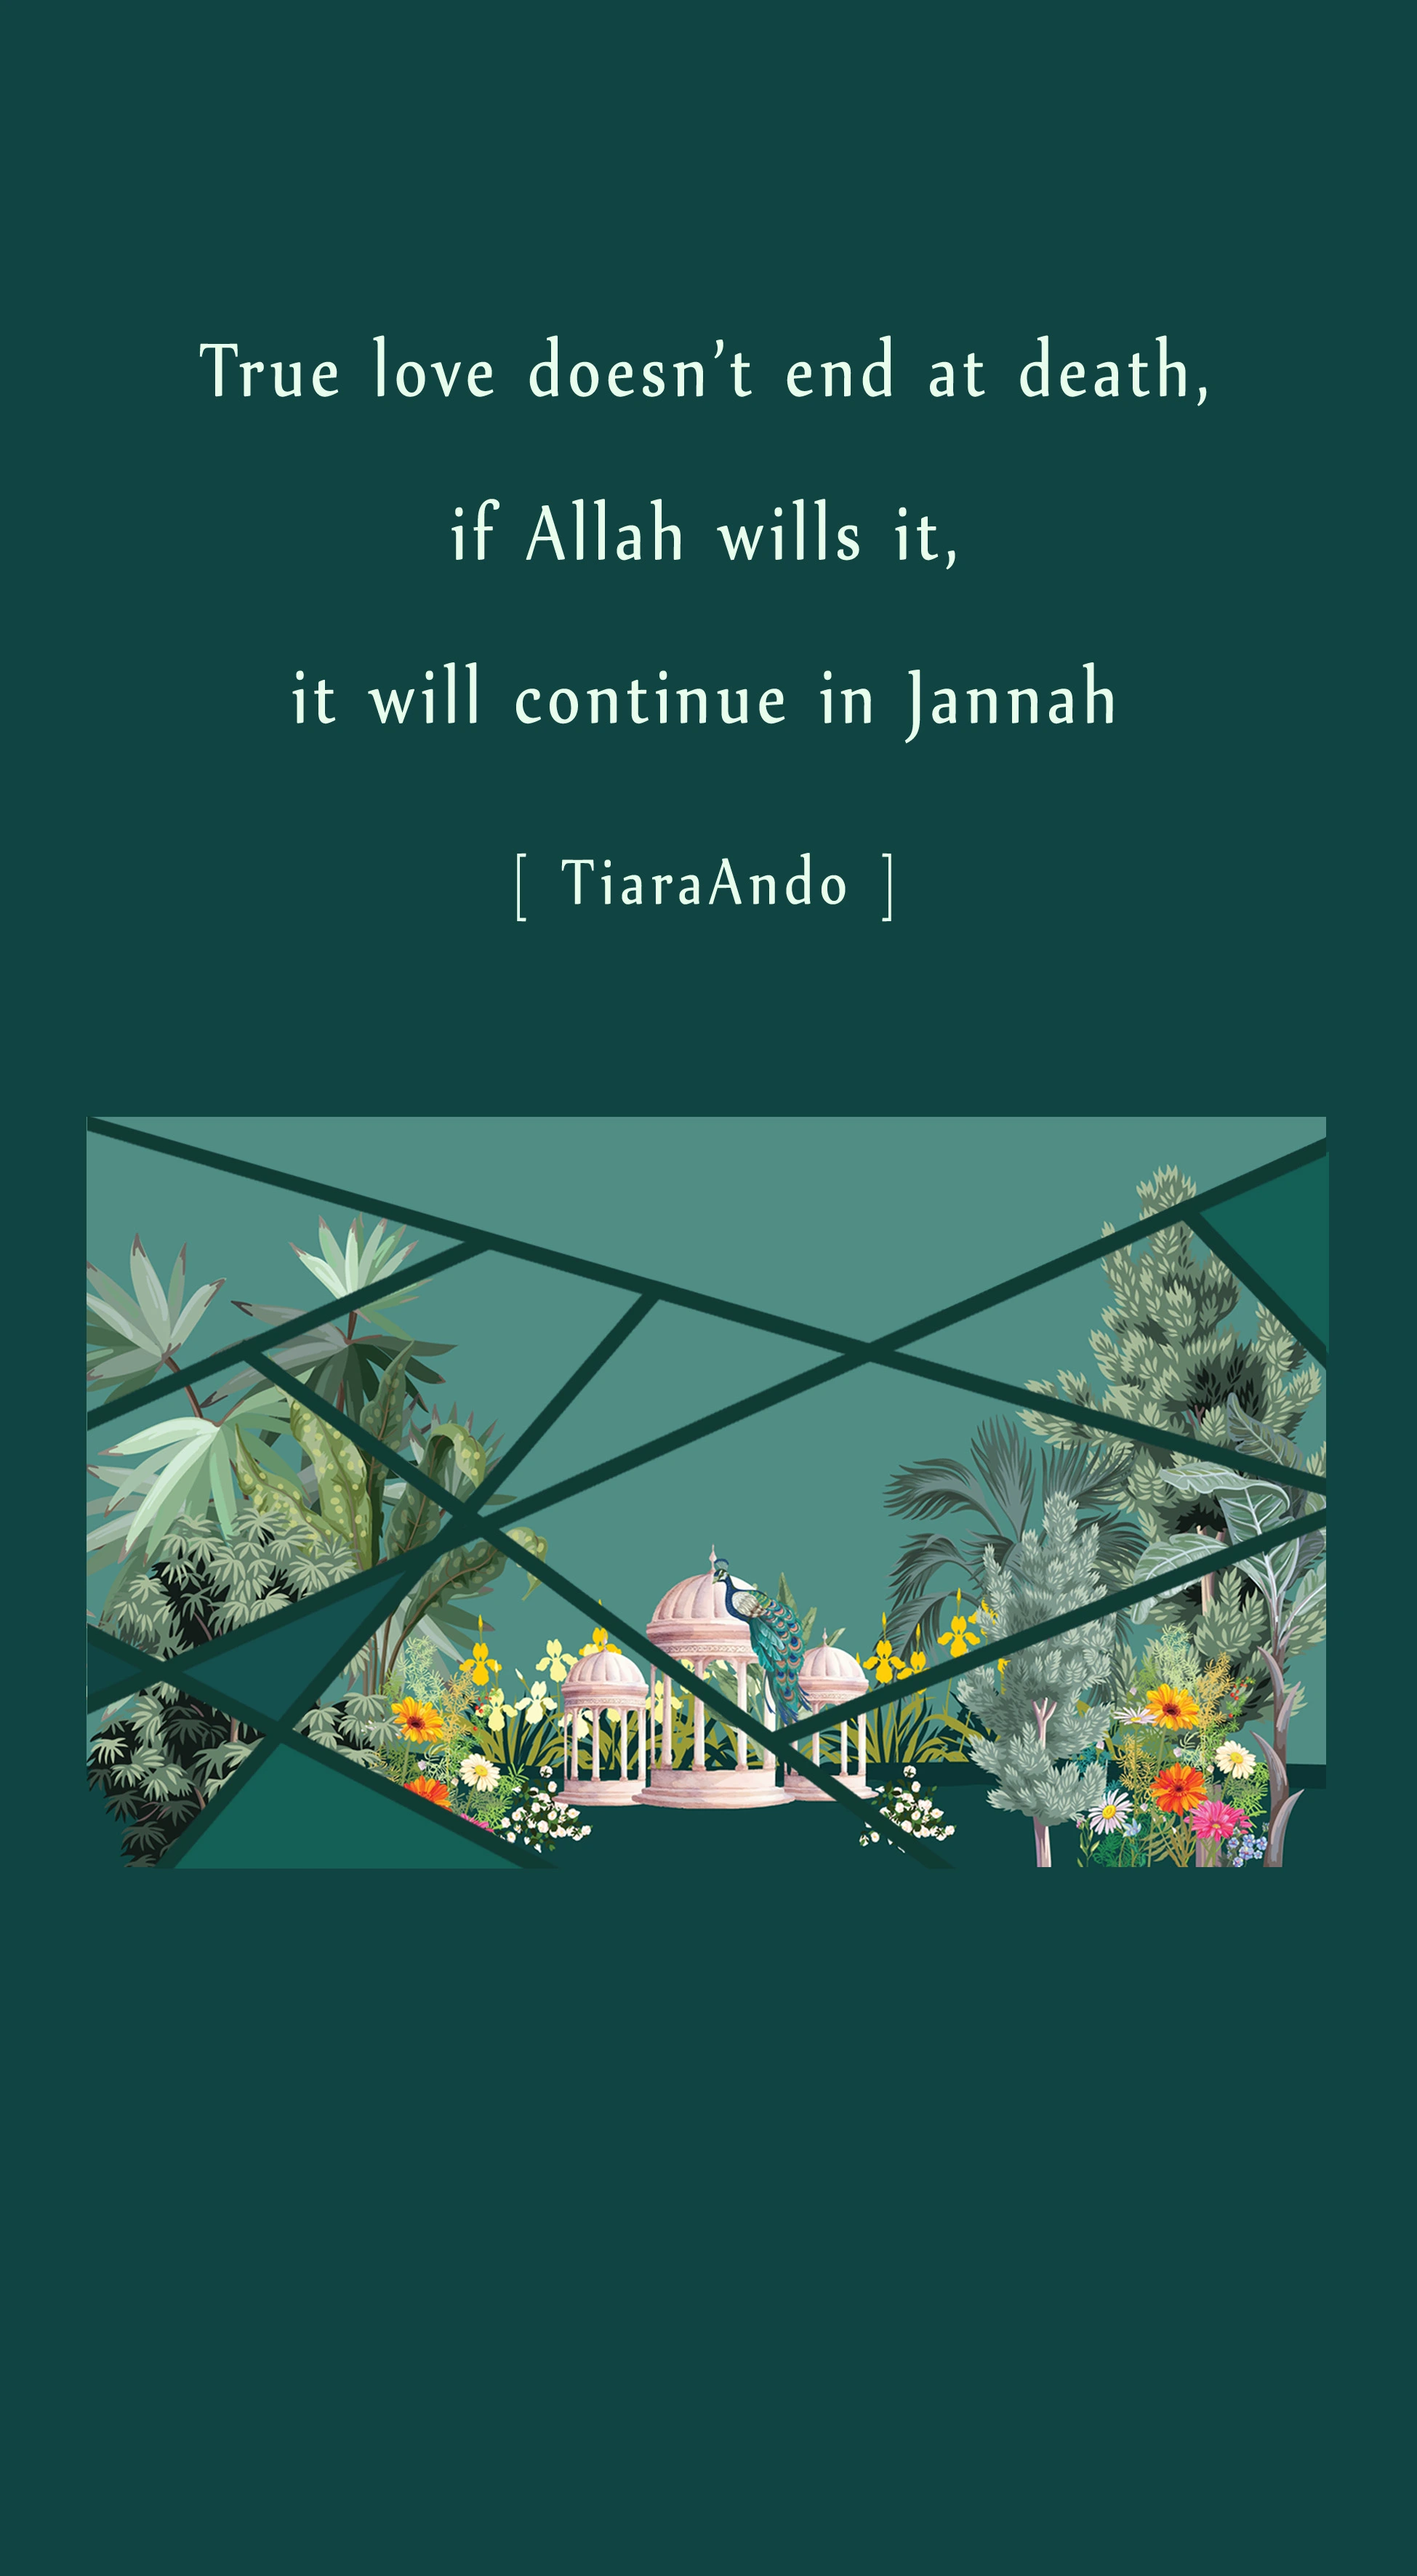
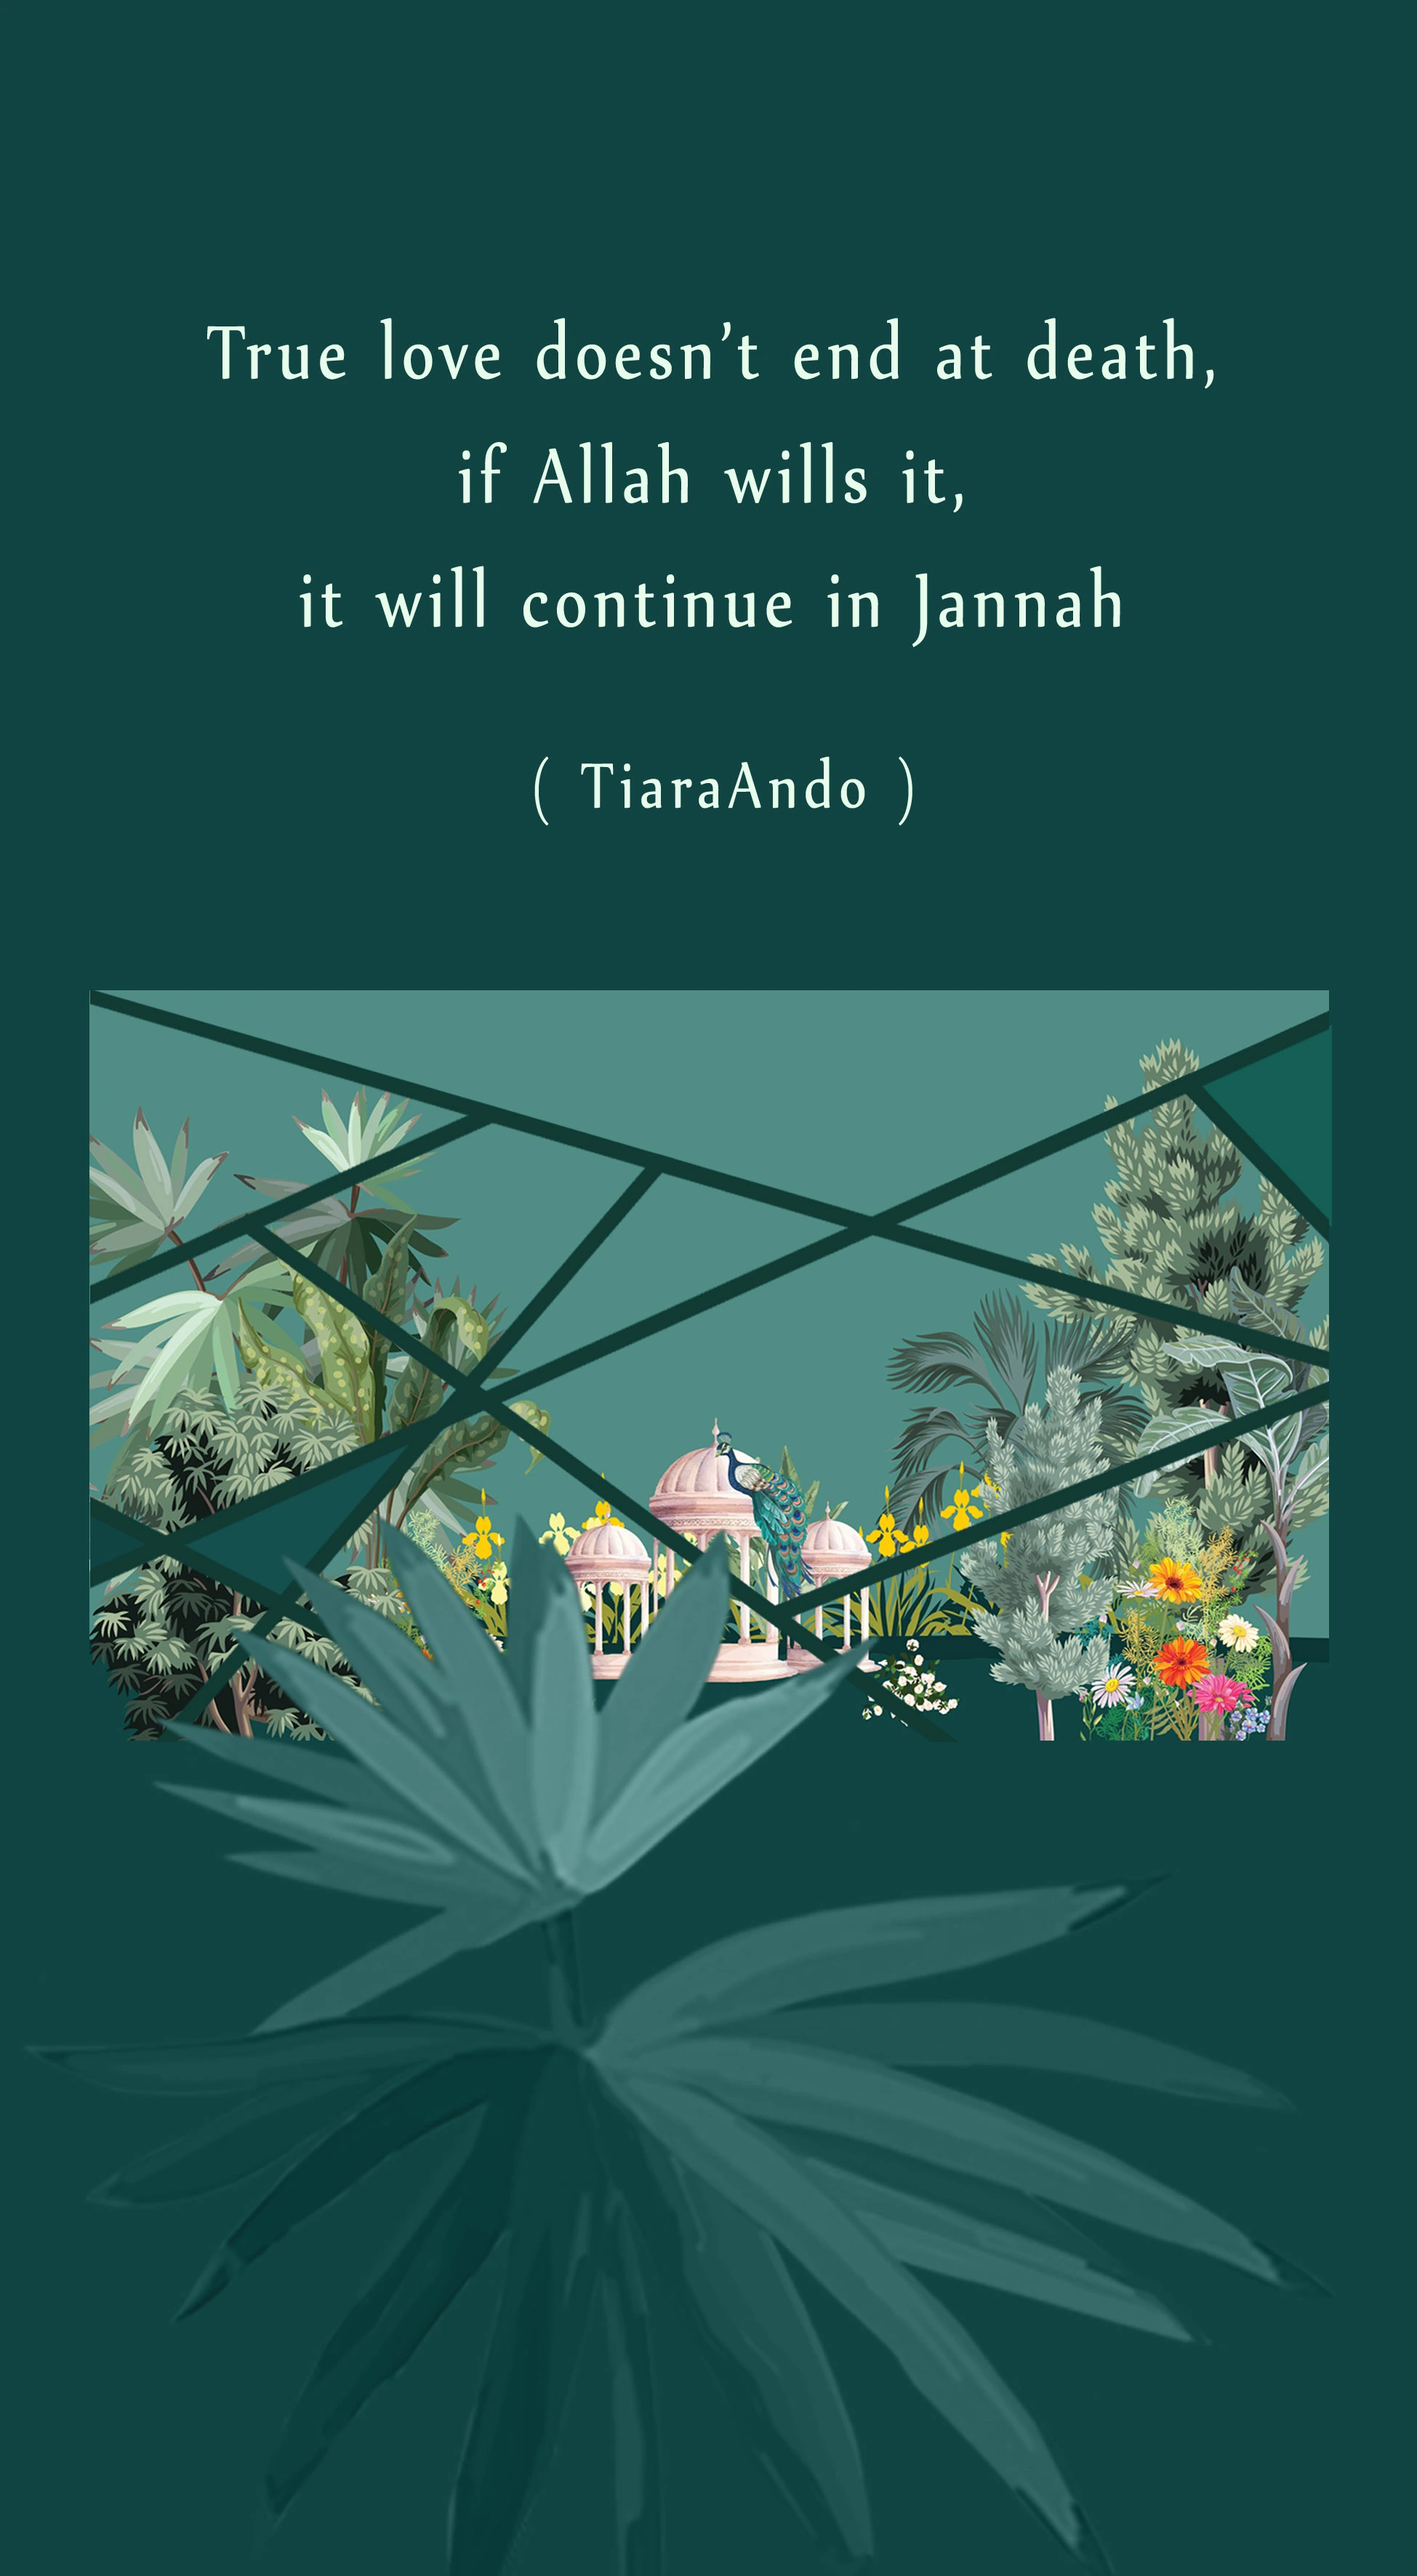
feat: update image

Changed region(s): [[0.0616, 0.1242, 0.9543, 0.9935], [0.2155, 0.2173, 0.2463, 0.2484]]

diff --git a/app/page.tsx b/app/page.tsx
@@ -287,9 +287,60 @@ export default function Home() {
               transition={{ duration: 1.5, repeat: Infinity }}
               className="absolute bottom-6 w-full flex flex-col items-center z-30 cursor-pointer focus:outline-none"
               onClick={() => {
-                const target = isFormal
-                  ? document.getElementById('quote-formal')
-                  : document.getElementById('timeline')
+                const target = document.getElementById('quote-formal')
+                if (target) {
+                  target.scrollIntoView({ behavior: 'smooth' })
+                }
+              }}
+            >
+              {/* Icon bulat */}
+              <div className="bg-white/80 backdrop-blur-md shadow-lg rounded-full p-2 mb-2">
+                <ChevronDown className="w-6 h-6 text-[#335A4A]" />
+              </div>
+
+              {/* Label teks */}
+              {/* {!isFormal && (
+                <span
+                  className="text-base font-semibold text-[#335A4A] tracking-wide"
+                  style={{
+                    textShadow: `
+                  -1px -1px 0 #fff,
+                  1px -1px 0 #fff,
+                  -1px 1px 0 #fff,
+                  1px 1px 0 #fff
+                `,
+                  }}
+                >
+                  Akad Nikah
+                </span>
+              )} */}
+            </motion.button>
+          </section>
+
+          <section
+            id="quote-formal"
+            className="w-screen max-w-[480px] m-auto bg-[#104442] relative snap-center snap-always flex flex-col"
+            style={{
+              height: '100dvh',
+              backgroundPosition: 'center',
+              backgroundSize: 'cover',
+            }}
+          >
+            {/* Kontainer utama */}
+            <Image
+              src="/resepsi/2.webp"
+              fill
+              alt="cover"
+              className="object-contain"
+            />
+
+            {/* Panah Scroll */}
+            <motion.button
+              animate={{ y: [0, -10, 0] }}
+              transition={{ duration: 1.5, repeat: Infinity }}
+              className="absolute bottom-6 w-full flex flex-col items-center z-30 cursor-pointer focus:outline-none"
+              onClick={() => {
+                const target = document.getElementById('timeline')
                 if (target) {
                   target.scrollIntoView({ behavior: 'smooth' })
                 }
@@ -318,63 +369,6 @@ export default function Home() {
               )}
             </motion.button>
           </section>
-
-          {isFormal && (
-            <>
-              <section
-                id="quote-formal"
-                className="w-screen max-w-[480px] m-auto bg-[#104442] relative snap-center snap-always flex flex-col"
-                style={{
-                  height: '100dvh',
-                  backgroundPosition: 'center',
-                  backgroundSize: 'cover',
-                }}
-              >
-                {/* Kontainer utama */}
-                <Image
-                  src="/resepsi/2.webp"
-                  fill
-                  alt="cover"
-                  className="object-contain"
-                />
-
-                {/* Panah Scroll */}
-                <motion.button
-                  animate={{ y: [0, -10, 0] }}
-                  transition={{ duration: 1.5, repeat: Infinity }}
-                  className="absolute bottom-6 w-full flex flex-col items-center z-30 cursor-pointer focus:outline-none"
-                  onClick={() => {
-                    const target = document.getElementById('timeline')
-                    if (target) {
-                      target.scrollIntoView({ behavior: 'smooth' })
-                    }
-                  }}
-                >
-                  {/* Icon bulat */}
-                  <div className="bg-white/80 backdrop-blur-md shadow-lg rounded-full p-2 mb-2">
-                    <ChevronDown className="w-6 h-6 text-[#335A4A]" />
-                  </div>
-
-                  {/* Label teks */}
-                  {!isFormal && (
-                    <span
-                      className="text-base font-semibold text-[#335A4A] tracking-wide"
-                      style={{
-                        textShadow: `
-                  -1px -1px 0 #fff,
-                  1px -1px 0 #fff,
-                  -1px 1px 0 #fff,
-                  1px 1px 0 #fff
-                `,
-                      }}
-                    >
-                      Akad Nikah
-                    </span>
-                  )}
-                </motion.button>
-              </section>
-            </>
-          )}
 
           <section
             ref={timelineRef}

diff --git a/components/hero-section.tsx b/components/hero-section.tsx
@@ -95,21 +95,12 @@ export default function HeroSection({
               transition={{ duration: 1, ease: 'easeInOut' }}
               className="absolute inset-0"
             >
-              {isFormal ? (
-                <Image
-                  src="/resepsi/1.webp"
-                  fill
-                  alt="cover"
-                  className="object-contain"
-                />
-              ) : (
-                <Image
-                  src="/resepsi/2.webp"
-                  fill
-                  alt="cover"
-                  className="object-contain"
-                />
-              )}
+              <Image
+                src="/resepsi/7.webp"
+                fill
+                alt="cover"
+                className="object-contain"
+              />
               {/* Panah Scroll */}
               <motion.button
                 animate={{ y: [0, -10, 0] }}
